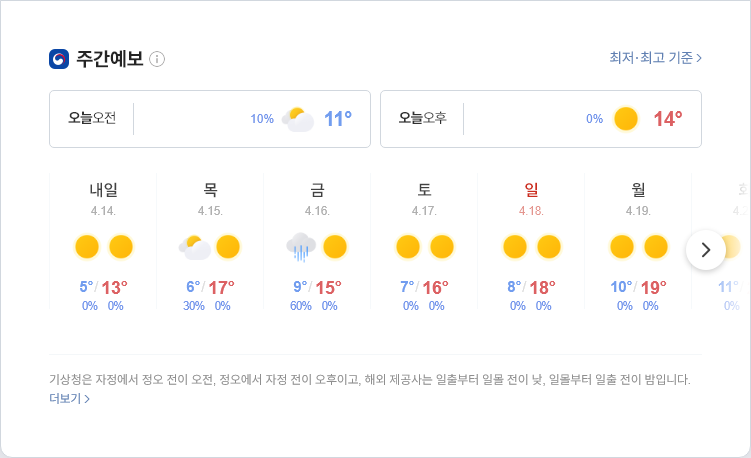
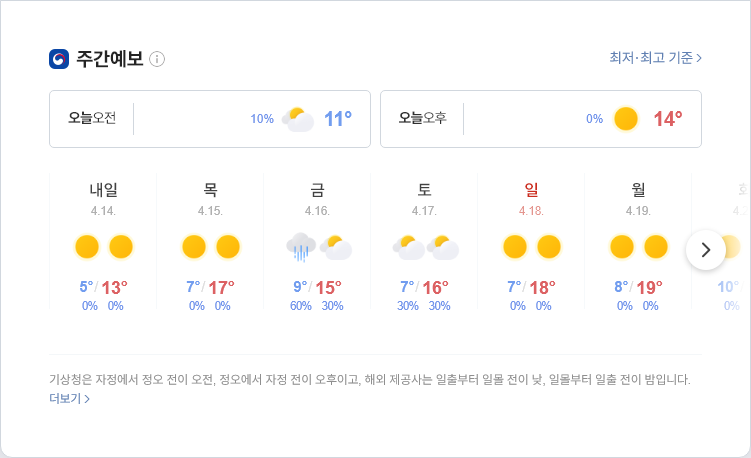
update result

diff --git a/README.md b/README.md
@@ -1,5 +1,5 @@
-##  2021-04-13 05:54:46   화요일 
-##### 날씨   -   어제보다 1° 낮아요흐림  
+##  2021-04-13 09:16:43   화요일 
+##### 날씨   -   어제보다 4° 낮아요맑음  
 <center><img src="../img/naver_weather_week.png"></center>
 ----
 ----
@@ -23,34 +23,34 @@
 ##### 시장
 <table border="1" bordercolor="blue" align = "center" >
 <tr align = "right" > <td>Item</td><td>Price</td><td>Diff</td><td>Rate</td><td>Buy</td><td>Sell</td><td>...</td>  </tr>
-<tr align = "right" > <td>USD</td><td>1,125.0</td><td>4.0</td><td><font size="3" color="red">0.36%</font></td><td><font size="3" color="black">1,110</font></td><td><font size="3" color="black">0</font></td><td>0</td>  </tr>
-<tr align = "right" > <td>WTI</td><td>59.32</td><td>-0.28</td><td><font size="3" color="blue">-0.46%</font></td><td><font size="3" color="black">29.0</font></td><td><font size="3" color="black">0</font></td><td>0</td>  </tr>
-<tr align = "right" > <td>GOLD</td><td>1,743.0</td><td>-13.5</td><td><font size="3" color="blue">-0.76%</font></td><td><font size="3" color="black">0</font></td><td><font size="3" color="black">0</font></td><td>0</td>  </tr>
+<tr align = "right" > <td>USD</td><td>1,124.0</td><td>-0.4</td><td><font size="3" color="blue">-0.04%</font></td><td><font size="3" color="black">1,110</font></td><td><font size="3" color="black">0</font></td><td>0</td>  </tr>
+<tr align = "right" > <td>WTI</td><td>59.7</td><td>0.38</td><td><font size="3" color="red">0.64%</font></td><td><font size="3" color="black">29.0</font></td><td><font size="3" color="black">0</font></td><td>0</td>  </tr>
+<tr align = "right" > <td>GOLD</td><td>1,731.0</td><td>-12.1</td><td><font size="3" color="blue">-0.69%</font></td><td><font size="3" color="black">0</font></td><td><font size="3" color="black">0</font></td><td>0</td>  </tr>
 </table>
 ----
 ##### 주가
 <table border="1" bordercolor="blue" align = "center" >
 <tr align = "right" > <td>Item</td><td>Price</td><td>Diff</td><td>Rate</td><td>Purchased</td><td>Sell</td><td>Buy</td>  </tr>
 <tr align = "right" > <td>한국 전력</td><td>23,850</td><td>0</td><td><font size="3" color="black">0.0%</font></td><td>25,720</td><td><font size="3" color="black">27,700</font></td><td><font size="3" color="black">20,700</font></td>  </tr>
-<tr align = "right" > <td>삼성엔지니어.</td><td>13,850</td><td>-100</td><td><font size="3" color="blue">-0.72%</font></td><td>18,935</td><td><font size="3" color="black">20,000</font></td><td><font size="3" color="black">8,000</font></td>  </tr>
-<tr align = "right" > <td>CJ CGV</td><td>26,900</td><td>-50</td><td><font size="3" color="blue">-0.19%</font></td><td>34,895</td><td><font size="3" color="black">36,000</font></td><td><font size="3" color="black">0</font></td>  </tr>
-<tr align = "right" > <td>아모레퍼시픽</td><td>255,500</td><td>3,000</td><td><font size="3" color="red">1.19%</font></td><td>235,350</td><td><font size="3" color="black">240,000</font></td><td><font size="3" color="black">130,000</font></td>  </tr>
-<tr align = "right" > <td>한화</td><td>31,200</td><td>350</td><td><font size="3" color="red">1.13%</font></td><td>25,550</td><td><font size="3" color="black">26,250</font></td><td><font size="3" color="black">26,250</font></td>  </tr>
-<tr align = "right" > <td>NAVER</td><td>385,500</td><td>2,000</td><td><font size="3" color="red">0.52%</font></td><td>147,200</td><td><font size="3" color="black">386,000</font></td><td><font size="3" color="black">286,000</font></td>  </tr>
-<tr align = "right" > <td>LG 화학우</td><td>390,000</td><td>6,500</td><td><font size="3" color="red">1.69%</font></td><td>202,490</td><td><font size="3" color="black">384,000</font></td><td><font size="3" color="black">384,000</font></td>  </tr>
-<tr align = "right" > <td>스튜디오드래.</td><td>105,000</td><td>-500</td><td><font size="3" color="blue">-0.47%</font></td><td>81,243</td><td><font size="3" color="black">85,200</font></td><td><font size="3" color="black">85,200</font></td>  </tr>
-<tr align = "right" > <td>QV미국IT</td><td>28,455</td><td>285</td><td><font size="3" color="red">1.01%</font></td><td>0</td><td><font size="3" color="black">30,000</font></td><td><font size="3" color="black">20,000</font></td>  </tr>
-<tr align = "right" > <td>삼성 전자우</td><td>75,100</td><td>100</td><td><font size="3" color="red">0.13%</font></td><td>48,250</td><td><font size="3" color="black">56,000</font></td><td><font size="3" color="black">45,000</font></td>  </tr>
-<tr align = "right" > <td>LS</td><td>65,700</td><td>-100</td><td><font size="3" color="blue">-0.15%</font></td><td>71,900</td><td><font size="3" color="black">82,000</font></td><td><font size="3" color="black">60,000</font></td>  </tr>
-<tr align = "right" > <td>한화에어로스.</td><td>39,900</td><td>-150</td><td><font size="3" color="blue">-0.37%</font></td><td>25,700</td><td><font size="3" color="black">30,000</font></td><td><font size="3" color="black">24,000</font></td>  </tr>
+<tr align = "right" > <td>삼성엔지니어.</td><td>13,950</td><td>100</td><td><font size="3" color="red">0.72%</font></td><td>18,935</td><td><font size="3" color="black">20,000</font></td><td><font size="3" color="black">8,000</font></td>  </tr>
+<tr align = "right" > <td>CJ CGV</td><td>26,800</td><td>-100</td><td><font size="3" color="blue">-0.37%</font></td><td>34,895</td><td><font size="3" color="black">36,000</font></td><td><font size="3" color="black">0</font></td>  </tr>
+<tr align = "right" > <td>아모레퍼시픽</td><td>261,000</td><td>5,500</td><td><font size="3" color="red">2.15%</font></td><td>235,350</td><td><font size="3" color="black">240,000</font></td><td><font size="3" color="black">130,000</font></td>  </tr>
+<tr align = "right" > <td>한화</td><td>31,200</td><td>0</td><td><font size="3" color="black">0.0%</font></td><td>25,550</td><td><font size="3" color="black">26,250</font></td><td><font size="3" color="black">26,250</font></td>  </tr>
+<tr align = "right" > <td>NAVER</td><td>383,500</td><td>-2,000</td><td><font size="3" color="blue">-0.52%</font></td><td>147,200</td><td><font size="3" color="black">386,000</font></td><td><font size="3" color="black">286,000</font></td>  </tr>
+<tr align = "right" > <td>LG 화학우</td><td>392,500</td><td>2,500</td><td><font size="3" color="red">0.64%</font></td><td>202,490</td><td><font size="3" color="black">384,000</font></td><td><font size="3" color="black">384,000</font></td>  </tr>
+<tr align = "right" > <td>스튜디오드래.</td><td>106,000</td><td>1,000</td><td><font size="3" color="red">0.95%</font></td><td>81,243</td><td><font size="3" color="black">85,200</font></td><td><font size="3" color="black">85,200</font></td>  </tr>
+<tr align = "right" > <td>QV미국IT</td><td>28,370</td><td>-85</td><td><font size="3" color="blue">-0.3%</font></td><td>0</td><td><font size="3" color="black">30,000</font></td><td><font size="3" color="black">20,000</font></td>  </tr>
+<tr align = "right" > <td>삼성 전자우</td><td>75,000</td><td>-100</td><td><font size="3" color="blue">-0.13%</font></td><td>48,250</td><td><font size="3" color="black">56,000</font></td><td><font size="3" color="black">45,000</font></td>  </tr>
+<tr align = "right" > <td>LS</td><td>65,800</td><td>100</td><td><font size="3" color="red">0.15%</font></td><td>71,900</td><td><font size="3" color="black">82,000</font></td><td><font size="3" color="black">60,000</font></td>  </tr>
+<tr align = "right" > <td>한화에어로스.</td><td>40,000</td><td>100</td><td><font size="3" color="red">0.25%</font></td><td>25,700</td><td><font size="3" color="black">30,000</font></td><td><font size="3" color="black">24,000</font></td>  </tr>
 <tr align = "right" > <td>카카오</td><td>558,000</td><td>0</td><td><font size="3" color="black">0.0%</font></td><td>405,500</td><td><font size="3" color="black">440,000</font></td><td><font size="3" color="black">400,000</font></td>  </tr>
-<tr align = "right" > <td>호텔 신라</td><td>85,500</td><td>300</td><td><font size="3" color="red">0.35%</font></td><td>72,800</td><td><font size="3" color="black">100,000</font></td><td><font size="3" color="black">70,000</font></td>  </tr>
-<tr align = "right" > <td>S-Oil</td><td>78,200</td><td>-700</td><td><font size="3" color="blue">-0.89%</font></td><td>62,842</td><td><font size="3" color="black">100,000</font></td><td><font size="3" color="black">50,000</font></td>  </tr>
-<tr align = "right" > <td>LG전자</td><td>156,500</td><td>-2,000</td><td><font size="3" color="blue">-1.26%</font></td><td>82,022</td><td><font size="3" color="black">100,000</font></td><td><font size="3" color="black">60,000</font></td>  </tr>
-<tr align = "right" > <td>KT&G</td><td>82,000</td><td>400</td><td><font size="3" color="red">0.49%</font></td><td>80,400</td><td><font size="3" color="black">100,000</font></td><td><font size="3" color="black">70,000</font></td>  </tr>
-<tr align = "right" > <td>지역난방공사</td><td>39,250</td><td>-50</td><td><font size="3" color="blue">-0.13%</font></td><td>43,590</td><td><font size="3" color="black">60,000</font></td><td><font size="3" color="black">30,000</font></td>  </tr>
-<tr align = "right" > <td>KOEDX은행</td><td>7,170</td><td>25</td><td><font size="3" color="red">0.35%</font></td><td>5,178</td><td><font size="3" color="black">6,225</font></td><td><font size="3" color="black">6,225</font></td>  </tr>
-<tr align = "right" > <td>글로벌럭셔리</td><td>16,945</td><td>160</td><td><font size="3" color="red">0.95%</font></td><td>15,260</td><td><font size="3" color="black">20,000</font></td><td><font size="3" color="black">10,000</font></td>  </tr>
-<tr align = "right" > <td>한국금융지주</td><td>103,500</td><td>3,600</td><td><font size="3" color="red">3.6%</font></td><td>0</td><td><font size="3" color="black">82,000</font></td><td><font size="3" color="black">60,000</font></td>  </tr>
+<tr align = "right" > <td>호텔 신라</td><td>84,900</td><td>-600</td><td><font size="3" color="blue">-0.7%</font></td><td>72,800</td><td><font size="3" color="black">100,000</font></td><td><font size="3" color="black">70,000</font></td>  </tr>
+<tr align = "right" > <td>S-Oil</td><td>78,400</td><td>200</td><td><font size="3" color="red">0.26%</font></td><td>62,842</td><td><font size="3" color="black">100,000</font></td><td><font size="3" color="black">50,000</font></td>  </tr>
+<tr align = "right" > <td>LG전자</td><td>157,000</td><td>500</td><td><font size="3" color="red">0.32%</font></td><td>82,022</td><td><font size="3" color="black">100,000</font></td><td><font size="3" color="black">60,000</font></td>  </tr>
+<tr align = "right" > <td>KT&G</td><td>82,000</td><td>0</td><td><font size="3" color="black">0.0%</font></td><td>80,400</td><td><font size="3" color="black">100,000</font></td><td><font size="3" color="black">70,000</font></td>  </tr>
+<tr align = "right" > <td>지역난방공사</td><td>39,250</td><td>0</td><td><font size="3" color="black">0.0%</font></td><td>43,590</td><td><font size="3" color="black">60,000</font></td><td><font size="3" color="black">30,000</font></td>  </tr>
+<tr align = "right" > <td>KOEDX은행</td><td>7,155</td><td>-15</td><td><font size="3" color="blue">-0.21%</font></td><td>5,178</td><td><font size="3" color="black">6,225</font></td><td><font size="3" color="black">6,225</font></td>  </tr>
+<tr align = "right" > <td>글로벌럭셔리</td><td>17,050</td><td>105</td><td><font size="3" color="red">0.62%</font></td><td>15,260</td><td><font size="3" color="black">20,000</font></td><td><font size="3" color="black">10,000</font></td>  </tr>
+<tr align = "right" > <td>한국금융지주</td><td>103,000</td><td>-500</td><td><font size="3" color="blue">-0.48%</font></td><td>0</td><td><font size="3" color="black">82,000</font></td><td><font size="3" color="black">60,000</font></td>  </tr>
 </table>
 ----
